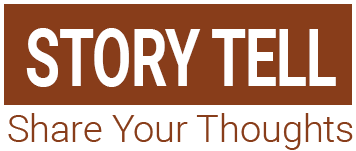
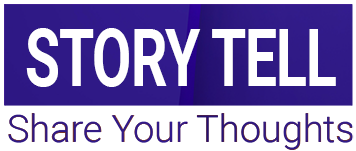
new color

diff --git a/src/cssFolder/AuthPage.css b/src/cssFolder/AuthPage.css
@@ -27,9 +27,9 @@ image {
   width: 1050px;
   height: 200px;
   border-radius: 50px;
-  border-left: 5px solid #883d1a;
-  border-right: 5px solid #883d1a;
-  border-bottom: 5px solid #883d1a;
+  border-left: 5px solid #2f1986;
+  border-right: 5px solid #2f1986;
+  border-bottom: 5px solid #2f1986;
   box-shadow: 0 2px 4px rgba(0, 0, 0, 0.2);
 }
 
@@ -168,7 +168,7 @@ body,
   border: none;
   border-radius: 30px;
   background-color: #dbd7d5c7;
-  color: #633d2c;
+  color: #2f1986;
   font-family: 'Montserrat', sans-serif;
   font-size: 16px;
   text-transform: uppercase;

diff --git a/src/cssFolder/MainPage.css b/src/cssFolder/MainPage.css
@@ -12,9 +12,9 @@
   background-color: #fff;
   padding: 20px;
   border-radius: 50px;
-  border-left: 5px solid #883d1a;
-  border-right: 5px solid #883d1a;
-  border-bottom: 5px solid #883d1a;
+  border-left: 5px solid #2f1986;
+  border-right: 5px solid #2f1986;
+  border-bottom: 5px solid #2f1986;
 }
 .task-form {
   display: flex;
@@ -68,7 +68,7 @@
 
 .front,
 .back {
-  background: #883d1a;
+  background: #2f1986;
 }
 
 .front,

diff --git a/src/cssFolder/HomePage.css b/src/cssFolder/HomePage.css
@@ -24,9 +24,9 @@
   background-color: white;
   padding: 20px;
   border-radius: 50px;
-  border-left: 5px solid #883d1a;
-  border-right: 5px solid #883d1a;
-  border-bottom: 5px solid #883d1a;
+  border-left: 5px solid #2f1986;
+  border-right: 5px solid #2f1986;
+  border-bottom: 5px solid #2f1986;
 }
 
 .home-content {
@@ -113,7 +113,7 @@ body,
 }
 
 .menu li a:hover {
-  color: #883d1a;
+  color: #2f1986;
 }
 
 .nav input {

diff --git a/src/cssFolder/AboutPage.css b/src/cssFolder/AboutPage.css
@@ -56,13 +56,13 @@ input {
 }
 
 .login-button {
-  background-color: #883d1a;
+  background-color: #2f1986;
 }
 .login-button :hover {
   background-color: #eeea9d;
 }
 .signup-button {
-  background-color: #883d1ac3;
+  background-color: #2f1986;
 }
 .signup-button :hover {
   background-color: #eeea9d;

diff --git a/src/cssFolder/register.css b/src/cssFolder/register.css
@@ -153,7 +153,7 @@ body,
   border: none;
   border-radius: 30px;
   background-color: #dbd7d5c7;
-  color: #633d2c;
+  color: #2f1986;
   font-family: 'Montserrat', sans-serif;
   font-size: 16px;
   text-transform: uppercase;

diff --git a/src/cssFolder/CreateBook.css b/src/cssFolder/CreateBook.css
@@ -3,7 +3,7 @@
   margin: 0 auto;
   padding: 20px;
   border-radius: 50px;
-  border: 5px solid #883d1a;
+  border: 5px solid #2f1986;
 }
 
 .create-book-container h2 {
